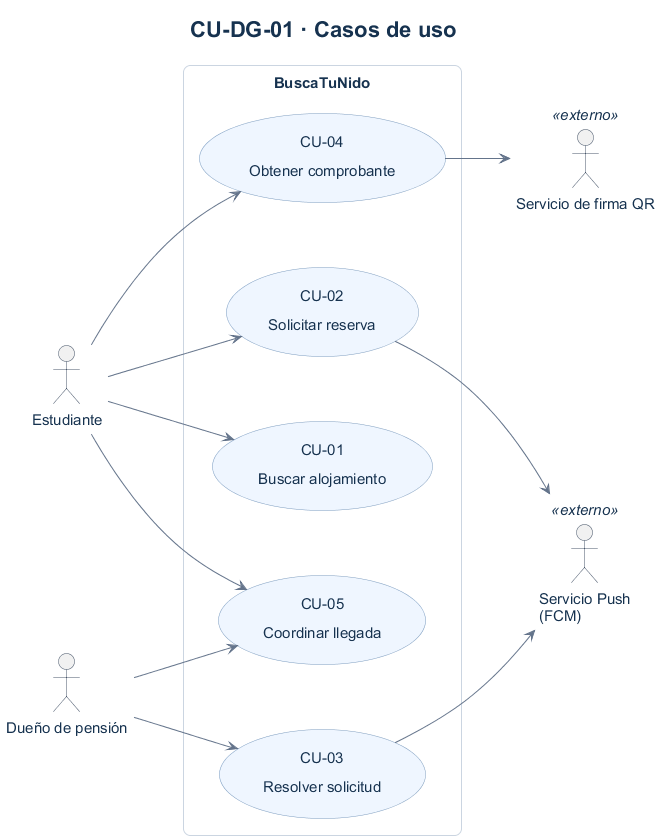
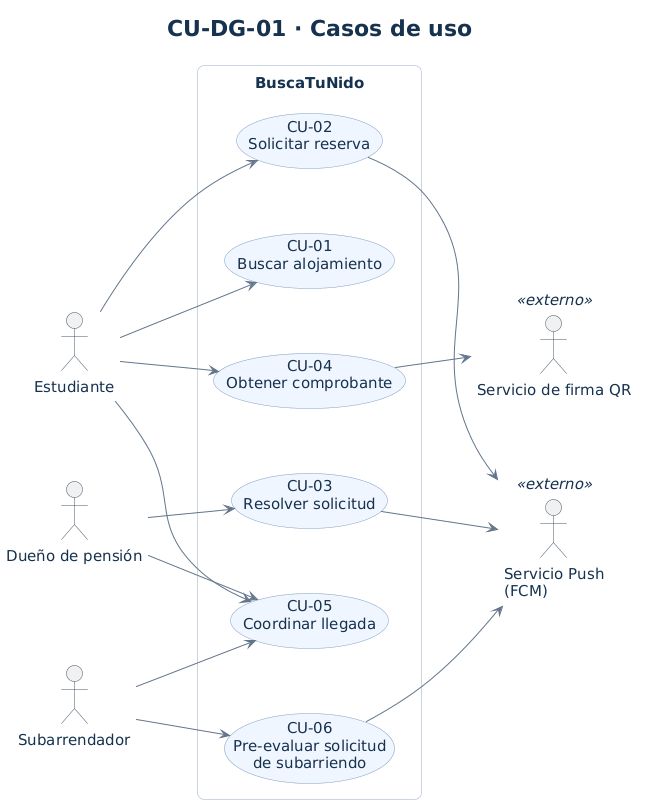
docs(eval2): resolver inconsistencias y actualizar diagramas de HU-05

diff --git a/09-casos-de-uso.md b/09-casos-de-uso.md
@@ -6,8 +6,8 @@
 |-------|----------------------------------|-------------|
 | **Estudiante** | Humano | Estudiante de educación superior foráneo que explora alojamientos, envía solicitudes formales y coordina su llegada. |
 | **Dueño de Pensión** | Humano | Arrendador o administrador del inmueble que recibe postulaciones móviles, aprueba o rechaza cupos y entrega habitaciones. |
-| **Subarrendador** | Humano | envía solicitudes formales y coordina su llegada. También es arrendador o administrador del inmueble que recibe postulaciones móviles, aprueba o rechaza cupos y entrega habitaciones. |
-| **Servicio Push (FCM)** | Sistema externo | Plataforma Firebase Cloud Messaging encargada de despachar alertas en tiempo real a los dispositivos móviles de estudiantes y dueños. |
+| **Subarrendador** | Humano | Residente autorizado de una pensión que pre-evalúa solicitudes de arriendo (`CU-06`) y coordina la llegada (`CU-05`); si postula a otra habitación actúa bajo el rol de Estudiante. |
+| **Servicio Push (FCM)** | Sistema externo | Plataforma Firebase Cloud Messaging encargada de despachar alertas en tiempo real a los dispositivos móviles de estudiantes, subarrendadores y dueños. |
 | **Servicio Criptográfico QR** | Sistema externo | Entidad de firma digital encargada de emitir y verificar sellos criptográficos asimétricos para validación de fichas sin conexión a internet. |
 
 ## CU-DG-01 — Diagrama de casos de uso
@@ -20,21 +20,22 @@ Archivo fuente: [`./diagramas/casos-de-uso.puml`](./diagramas/casos-de-uso.puml)
 
 | ID | Caso de uso (objetivo del actor) | Actor principal | Historia de origen |
 |----|-----------------------------------|-----------------|---------------------|
-| **CU-01** | Buscar alojamiento | Estudiante / subarrendador | [`HU-01`](./04-historias-usuario.md#hu-01--filtrar-catálogo-por-campus-precio-y-normas) |
-| **CU-02** | Solicitar reserva | Estudiante / subarrendador | [`HU-02`](./04-historias-usuario.md#hu-02--enviar-solicitud-formal-de-reserva) |
-| **CU-03** | Resolver solicitud | Dueño de Pensión / subarrendador | [`HU-03`](./04-historias-usuario.md#hu-03--revisar-solicitud-y-resolver-postulación-desde-el-móvil) |
-| **CU-04** | Obtener comprobante | Estudiante / subarrendador | [`HU-04`](./04-historias-usuario.md#hu-04--recibir-confirmación-y-coordinar-llegada-por-chat) |
-| **CU-05** | Coordinar llegada | Estudiante / Dueño / subarrendador | [`HU-04`](./04-historias-usuario.md#hu-04--recibir-confirmación-y-coordinar-llegada-por-chat) |
-| **CU-06** | Solicitud reserva | Estudiante / Dueño / subarrendador | [`HU-05`](./04-historias-usuario.md) |
+| **CU-01** | Buscar alojamiento | Estudiante | [`HU-01`](./04-historias-usuario.md#hu-01--filtrar-catálogo-por-campus-precio-y-normas) |
+| **CU-02** | Solicitar reserva | Estudiante | [`HU-02`](./04-historias-usuario.md#hu-02--enviar-solicitud-formal-de-reserva) |
+| **CU-03** | Resolver solicitud | Dueño de Pensión | [`HU-03`](./04-historias-usuario.md#hu-03--revisar-solicitud-y-resolver-postulación-desde-el-móvil) |
+| **CU-04** | Obtener comprobante | Estudiante | [`HU-04`](./04-historias-usuario.md#hu-04--recibir-confirmación-y-coordinar-llegada-por-chat) |
+| **CU-05** | Coordinar llegada | Estudiante / Dueño de Pensión / Subarrendador | [`HU-04`](./04-historias-usuario.md#hu-04--recibir-confirmación-y-coordinar-llegada-por-chat) |
+| **CU-06** | Pre-evaluar solicitud de subarriendo | Subarrendador | [`HU-05`](./04-historias-usuario.md#hu-05--permisos-de-subarrendador) |
 
 ## Alcance de los casos de uso
 
-El diagrama presenta cinco objetivos del usuario. Las validaciones, el bloqueo del cupo y la firma del comprobante forman parte de sus flujos; no se muestran como casos de uso independientes. No se necesitan relaciones include/extend para esta vista.
+El diagrama presenta seis objetivos del usuario. Las validaciones, el bloqueo del cupo y la firma del comprobante forman parte de sus flujos; no se muestran como casos de uso independientes. No se necesitan relaciones include/extend para esta vista.
 
 - **CU-01 — Buscar alojamiento:** filtrar el catálogo por campus, precio y normas.
-- **CU-02 — Solicitar reserva:** validar antecedentes y disponibilidad, registrar la solicitud y notificar al dueño mediante FCM.
-- **CU-03 — Resolver solicitud:** aprobar solo si hay cupo, bloquearlo y notificar al estudiante; o rechazar y enviar alternativas. Rechazar no bloquea ni libera cupos de otras reservas.
-- **CU-04 — Obtener comprobante:** requiere una solicitud aprobada. La primera emisión usa el servicio de firma QR; las descargas posteriores reutilizan la ficha. La verificación presencial puede hacerse sin conexión.
-- **CU-05 — Coordinar llegada:** habilitar el chat exclusivamente entre el postulante y el arrendador de una solicitud aprobada.
+- **CU-02 — Solicitar reserva:** validar antecedentes y disponibilidad, registrar la solicitud y notificar al dueño (y al subarrendador si corresponde) mediante FCM.
+- **CU-03 — Resolver solicitud:** aprobar solo si hay cupo (y si existe subarrendador, previa pre-aprobación suya en `CU-06`), bloquearlo y notificar al estudiante; o rechazar y enviar alternativas. Rechazar no bloquea ni libera cupos de otras reservas.
+- **CU-04 — Obtener comprobante:** requiere una solicitud aprobada (`Aprobada` o `Confirmada por dueño`). La primera emisión usa el servicio de firma QR; las descargas posteriores reutilizan la ficha. La verificación presencial puede hacerse sin conexión.
+- **CU-05 — Coordinar llegada:** habilitar el chat exclusivamente entre el postulante y el arrendador (o subarrendador autorizado) de una solicitud aprobada.
+- **CU-06 — Pre-evaluar solicitud de subarriendo:** el subarrendador pre-aprueba o rechaza una solicitud `En revisión`, registra `acuerdoSubarriendo` y notifica la decisión al dueño mediante FCM; la habitación no se bloquea hasta la confirmación final del dueño en `CU-03`.
 
-Los actores externos apoyan al sistema: FCM entrega notificaciones y el servicio QR firma el comprobante. Los actores humanos conservan sus roles de estudiante y dueño.
+Los actores externos apoyan al sistema: FCM entrega notificaciones y el servicio QR firma el comprobante. Los actores humanos conservan sus roles de estudiante, dueño y subarrendador.

diff --git a/08-modelo-dominio.md b/08-modelo-dominio.md
@@ -12,10 +12,10 @@ El diagrama muestra los atributos esenciales. La tabla siguiente conserva el det
 
 | Clase | Qué representa en el negocio | Atributos |
 |-------|------------------------------|-----------|
-| Persona | Persona que participa como estudiante postulante, arrendador o ambos. | nombreCompleto, correoElectronico, telefono, correoInstitucional, correoInstitucionalVerificado, universidad, carrera |
+| Persona | Persona que participa como estudiante postulante, arrendador (dueño), subarrendador o más de uno. | nombreCompleto, correoElectronico, telefono, correoInstitucional, correoInstitucionalVerificado, universidad, carrera |
 | Pension | Inmueble que ofrece alojamiento a estudiantes. | nombreComercial, direccion, comuna, coordenadasGeograficas, normasConvivencia, serviciosIncluidos |
 | Habitacion | Espacio ofrecido en arriendo dentro de una pensión. | identificadorHabitacion, precioMensual, tipoCama, tieneBanoPrivado, estadoDisponibilidad, fechaInicioAdmision, fechaFinAdmision |
-| SolicitudReserva | Postulación de una persona a una habitación para una fecha y duración determinadas. | codigoSolicitud, fechaLlegadaEstimada, duracionEstadiaMeses, mensajePresentacion, fechaEnvio, estado |
+| SolicitudReserva | Postulación de una persona a una habitación para una fecha y duración determinadas. | codigoSolicitud, fechaLlegadaEstimada, duracionEstadiaMeses, mensajePresentacion, fechaEnvio, acuerdoSubarriendo, estado |
 | FichaReserva | Comprobante de una solicitud aprobada, con código de verificación firmado. | codigoReserva, fechaEmision, codigoQRFirmado, estadoFicha |
 | MensajeChat | Mensaje de coordinación de llegada asociado a una solicitud aprobada. | contenidoTexto, fechaHoraEnvio, leido |
 
@@ -24,6 +24,7 @@ El diagrama muestra los atributos esenciales. La tabla siguiente conserva el det
 | Asociación | Clases | Multiplicidades | Justificación |
 |------------|--------|-----------------|---------------|
 | administra | Persona – Pension | 1 a 0..* | Cada pensión tiene un arrendador responsable; una persona puede no administrar ninguna o administrar varias. |
+| subarrienda | Persona – Pension | 0..1 a 0..* | Una pensión puede contar opcionalmente con un subarrendador autorizado para pre-evaluar postulaciones; una persona puede subarrendar cero o más pensiones. |
 | contiene | Pension – Habitacion | 1 a 1..* | Cada habitación pertenece a una pensión; cada pensión publicada ofrece al menos una habitación. |
 | presenta | Persona – SolicitudReserva | 1 a 0..* | Cada solicitud tiene un único postulante; una persona puede presentar varias solicitudes. |
 | solicita | SolicitudReserva – Habitacion | 0..* a 1 | Cada solicitud corresponde a una habitación; una habitación puede recibir varias postulaciones a lo largo del tiempo. |
@@ -33,9 +34,10 @@ El diagrama muestra los atributos esenciales. La tabla siguiente conserva el det
 
 ## Decisiones de modelado
 
-- Estudiante y dueño son roles de `Persona`, expresados como postulante y arrendador en las asociaciones. No son clases ni subtipos excluyentes: una misma persona puede asumir ambos roles. Los datos académicos son opcionales para una persona en general y obligatorios al postular según HU-02.
+- Estudiante, dueño y subarrendador son roles de `Persona`, expresados como postulante, arrendador y subarrendador en las asociaciones. No son clases ni subtipos excluyentes: una misma persona puede asumir distintos roles. Los datos académicos son opcionales para una persona en general y obligatorios al postular según HU-02.
 - Se usan asociaciones simples, sin herencia, agregación ni composición. Dar de baja una oferta no implica destruir la habitación física ni eliminar solicitudes, fichas o conversaciones históricas.
 - Los atributos representan información del negocio, sin métodos ni modificadores de visibilidad. No se incluyen cuentas bancarias porque el alcance no contempla pagos.
-- `EstadoSolicitud` corresponde a los estados de EST-01: En revisión, Aprobada, Rechazada y Expirada. `EstadoHabitacion` corresponde a EST-02: Disponible, Reservada y Ocupada.
+- `EstadoSolicitud` corresponde a los estados de EST-01 (`En revisión`, `Aprobada`, `Rechazada`, `Expirada`) y, en el flujo con subarrendador de EST-03 (`HU-05`), incorpora `Pendiente confirmación dueño` y `Confirmada por dueño` (equivalente a `Aprobada` para habilitar `EST-02`, `FichaReserva` y `MensajeChat`). `EstadoHabitacion` corresponde a EST-02: `Disponible`, `Reservada` y `Ocupada`.
+- `SolicitudReserva.acuerdoSubarriendo` (booleano opcional) registra si el subarrendador pre-aprobó (`true`) o rechazó (`false`) la solicitud antes de la confirmación final del dueño; es `null` mientras está `En revisión` o en pensiones sin subarrendador.
 - `Persona.correoInstitucionalVerificado` y las fechas `fechaInicioAdmision`/`fechaFinAdmision` de `Habitacion` se incorporan por HU-02 (confirmado el 2026-11-12): el correo verificado es condición para postular y las fechas delimitan el período válido de ingreso.
 - Puede haber varias solicitudes para una habitación, pero la aprobación exige disponibilidad y bloquea el cupo para impedir aprobaciones incompatibles. Una solicitud pendiente o rechazada no habilita ficha ni chat.

diff --git a/11-diagramas-estado.md b/11-diagramas-estado.md
@@ -48,23 +48,28 @@ Archivo fuente: [est-02.puml](./diagramas/est-02.puml)
 
 Reservada significa que el cupo está comprometido; Ocupada, que el estudiante ya llegó. Aprobar corresponde a `aprobarSolicitudReserva` en DSS-01; la validación del QR se relaciona con DSS-02. Publicación, registro de salida y baja completan el ciclo propuesto y requieren validación del equipo, pues no están desarrollados en esas secuencias.
 
-## EST-03 — Ciclo de vida de Reserva Subarriendo
+## EST-03 — Ciclo de vida de SolicitudReserva con subarrendador
 
 - Clase: [SolicitudReserva](./08-modelo-dominio.md).
-- Secuencia relacionada: [DSS-03](./10-diagramas-secuencia.md).
+- Secuencia relacionada: [DSS-03](./10-diagramas-secuencia.md#dss-03--resolución-de-postulación-de-reserva-con-subarrendador).
 
-![EST-03: Solicitud de reserva subarriendo](./diagramas/est-03.jpg)
+![EST-03: Ciclo de vida de SolicitudReserva con subarrendador](./diagramas/est-03.png)
+
+Archivo fuente: [est-03.puml](./diagramas/est-03.puml)
 
 ### Tabla de transiciones
 
 | Origen | Evento | Guarda | Acción | Destino |
 |--------|--------|--------|--------|---------|
-| Inicio | Creación tras enviar una solicitud válida | — | Registrar solicitud y notificar al subarrendador | En revisión |
-| En revisión | Aprobar | _ | esperar al subarrendador | Aprobada |
-| En revisión | Esperar al dueño | — | Registrar solicitud y notificar al dueño | En revisión |
-| En revisión | Aprobar | Habitación disponible y menos de 48 h desde el envío | Bloquear cupo y notificar aprobación | Aprobada |
-| En revisión | Rechazar | Menos de 48 h desde el envío | Registrar motivo y notificar con alternativas | Rechazada |
+| Inicio | Creación tras enviar una solicitud válida | — | Registrar solicitud (`acuerdoSubarriendo = null`) y notificar al subarrendador | En revisión |
+| En revisión | Pre-aprobar (subarrendador) | Habitación `Disponible` y menos de 48 h desde el envío | Registrar `acuerdoSubarriendo = true` y notificar pre-aprobación al dueño | Pendiente confirmación dueño |
+| En revisión | Rechazar (subarrendador) | Menos de 48 h desde el envío | Registrar `acuerdoSubarriendo = false`, motivo, notificar al dueño y al estudiante con alternativas | Rechazada |
 | En revisión | after (48 h) | — | Notificar expiración | Expirada |
-| Aprobada | Finalización | — | — | Fin |
+| Pendiente confirmación dueño | Confirmar (dueño) | Habitación `Disponible`, `acuerdoSubarriendo = true` y menos de 48 h desde pre-aprobación | Bloquear cupo (`Reservada`), emitir ficha y notificar aprobación al estudiante | Confirmada por dueño |
+| Pendiente confirmación dueño | Rechazar (dueño) | Menos de 48 h desde pre-aprobación | Registrar motivo y notificar rechazo con alternativas al estudiante | Rechazada |
+| Pendiente confirmación dueño | after (48 h) | — | Notificar expiración | Expirada |
+| Confirmada por dueño | Finalización | — | — | Fin |
 | Rechazada | Finalización | — | — | Fin |
 | Expirada | Finalización | — | — | Fin |
+
+`Confirmada por dueño` equivale a `Aprobada` de `EST-01` para habilitar el bloqueo de la habitación (`Disponible → Reservada` en `EST-02`), la emisión de `FichaReserva` y el acceso a `MensajeChat`. Mientras permanezca en `Pendiente confirmación dueño`, el cupo continúa `Disponible` y no se habilitan ni la ficha ni el chat.

diff --git a/eval2/CAMBIOS.md b/eval2/CAMBIOS.md
@@ -1,0 +1,10 @@
+# Registro de cambios — Evaluación 2
+
+| Artefacto | Qué cambió (antes → después) | Por qué el cambio solicitado lo exige | Responsable |
+|---|---|---|---|
+| **HU y Gherkin** (`04-historias-usuario.md`, `07-criterios-aceptacion.md`) | Antes: `HU-01` a `HU-04` (8 escenarios Gherkin). Después: agrega `HU-05 — Permisos de subarrendador` (`CA1`, `CA2`) y 3 escenarios Gherkin (doble aprobación exitosa, rechazo de subarrendador o dueño, y restricción de ficha/chat sin confirmación del dueño). | El nuevo actor requiere una historia y criterios verificables para el flujo de pre-aprobación y doble aprobación. | Matías Henríquez |
+| **Modelo de dominio** (`08-modelo-dominio.md`, `diagramas/modelo-dominio.puml`, `diagramas/modelo-dominio-simplificado.png`) | Antes: 6 clases (`Persona` como estudiante o dueño) y `EstadoSolicitud` en `EST-01`. Después: incorpora rol `Subarrendador` en `Persona` con asociación `subarrienda` (`Persona 0..1 – 0..* Pension`), agrega `SolicitudReserva.acuerdoSubarriendo` e incluye los estados `Pendiente confirmación dueño` y `Confirmada por dueño`. | Es necesario identificar qué persona subarrienda una pensión, registrar su pre-acuerdo y distinguir una pre-aprobación de la aprobación final. | Jason Monroy |
+| **Casos de uso** (`09-casos-de-uso.md`, `diagramas/casos-de-uso.puml`, `diagramas/casos-de-uso.png`) | Antes: actores `Estudiante` y `Dueño de Pensión`, casos `CU-01` a `CU-05`. Después: agrega actor `Subarrendador` (vinculado a `CU-05` y `CU-06`) y nuevo caso `CU-06 — Pre-evaluar solicitud de subarriendo` conectado a `Servicio Push (FCM)`. | El subarrendador ejecuta un objetivo propio distinto al del dueño y dispara notificación push hacia este. | José Ignacio Leiva |
+| **Diagramas de secuencia** (`10-diagramas-secuencia.md`, `diagramas/dss-03.puml`, `diagramas/dss-03.png`) | Antes: `DSS-01` y `DSS-02`. Después: agrega `DSS-03 — Resolución de postulación de reserva con subarrendador` con bloque `alt` de tres ramas (doble aprobación, rechazo del subarrendador y rechazo del dueño) usando `ServicioPush`. | Modela la interacción externa vía push y las ramificaciones entre subarrendador, dueño y estudiante. | Martín León Pizarro |
+| **Diagramas de estado** (`11-diagramas-estado.md`, `diagramas/est-03.puml`, `diagramas/est-03.png`) | Antes: `EST-01` y `EST-02`. Después: agrega `EST-03 — Ciclo de vida de SolicitudReserva con subarrendador` con estados `En revisión` → `Pendiente confirmación dueño` → `Confirmada por dueño` / `Rechazada` / `Expirada` (48 h). | La doble aprobación exige un estado intermedio antes de habilitar el bloqueo de la habitación (`Reservada`) en `EST-02`. | Vicente Arancibia Araya |
+| **Trazabilidad** (`12-trazabilidad.md`) | Antes: `RP-01`–`RP-10`, `RP-DER-01` y `HU-01`–`HU-04`. Después: enlaza `RP-11` ↔ `HU-05` ↔ `CU-06`/`CU-03` ↔ `DSS-03` ↔ `EST-03`/`EST-02` ↔ clases afectadas, y deja fila de `HU-05` lista para enlazar código y pruebas. | Mantiene la trazabilidad completa de requisitos a pruebas antes de generar la implementación. | José Ignacio Leiva |

diff --git a/07-criterios-aceptacion.md b/07-criterios-aceptacion.md
@@ -87,3 +87,35 @@ Característica: Confirmación de reserva y coordinación de llegada
     Entonces el acceso al canal de comunicación se restringe
     Y se le informa que el chat se habilita exclusivamente una vez confirmada y aprobada la reserva
 ```
+
+---
+
+## HU-05 — Permisos de subarrendador
+Historia: Como subarrendador, quiero pre-aprobar o rechazar las solicitudes de arriendo de los postulantes para la habitación que subarriendo, para participar en la evaluación de residentes con validación final del dueño de la pensión.
+
+```gherkin
+Característica: Doble aprobación de postulación entre subarrendador y dueño
+
+  Escenario: Doble aprobación exitosa por subarrendador y dueño
+    Dado que existe una solicitud de reserva en estado "En revisión" para una pensión con subarrendador autorizado y habitación "Disponible"
+    Cuando el subarrendador pre-aprueba la solicitud
+    Entonces la solicitud pasa a estado "Pendiente confirmación dueño" con acuerdoSubarriendo registrado
+    Y se despacha una notificación push al dueño informando la pre-aprobación
+    Y cuando el dueño confirma la solicitud dentro del plazo de 48 horas
+    Entonces la solicitud pasa a estado "Confirmada por dueño"
+    Y la habitación pasa a estado "Reservada" quedando bloqueada para nuevas solicitudes en el catálogo
+    Y se emite la ficha oficial de reserva y se notifica la confirmación al estudiante
+
+  Escenario: Rechazo de postulación por el subarrendador o por el dueño
+    Dado que existe una solicitud de reserva en estado "En revisión" o "Pendiente confirmación dueño"
+    Cuando el subarrendador o el dueño rechaza la postulación indicando el motivo
+    Entonces la solicitud pasa a estado "Rechazada"
+    Y la habitación se mantiene en estado "Disponible" para otros postulantes
+    Y se notifica el rechazo al estudiante junto a alternativas del sector y se informa al dueño
+
+  Escenario: Restricción de ficha y chat mientras falta confirmación del dueño
+    Dado que el subarrendador pre-aprobó una solicitud pero esta sigue en estado "Pendiente confirmación dueño"
+    Cuando el estudiante intenta descargar la ficha oficial en PDF o abrir el chat de coordinación
+    Entonces el sistema impide el acceso y mantiene la habitación en estado "Disponible"
+    Y informa que la reserva aún requiere confirmación final del dueño
+```

diff --git a/EVALUACION2.md b/EVALUACION2.md
@@ -1,27 +1,20 @@
-### historia de usuarios
-- se agregan historia de usuario 
-- se agregan criterios de aceptación
+### Historia de usuarios (`04-historias-usuario.md`, `07-criterios-aceptacion.md`)
+- Se agrega `HU-05 — Permisos de subarrendador` (`CA1`: notificación al dueño; `CA2`: aprobación conjunta de subarrendador y dueño).
+- Se agregan 3 escenarios Gherkin para doble aprobación, rechazo y bloqueo de ficha/chat sin confirmación del dueño.
 
-### modelo de dominio: 
+### Modelo de dominio (`08-modelo-dominio.md`, `diagramas/modelo-dominio.puml`)
+- Se agrega el atributo `acuerdoSubarriendo` en `SolicitudReserva`.
+- Se incorpora el rol `Subarrendador` sobre `Persona` con la asociación `subarrienda` (`Persona 0..1 – 0..* Pension`).
 
-Cambian atributos en la entidad habitación
+### Casos de uso (`09-casos-de-uso.md`, `diagramas/casos-de-uso.puml`)
+- Se agrega el actor `Subarrendador` (vinculado a `CU-05` y `CU-06`).
+- Se agrega `CU-06 — Pre-evaluar solicitud de subarriendo` conectado a `Servicio Push (FCM)`.
 
-### casos de uso
+### Diagrama de secuencia (`10-diagramas-secuencia.md`, `diagramas/dss-03.puml`)
+- Se crea `DSS-03 — Resolución de postulación de reserva con subarrendador` con las ramas `alt` de doble aprobación y rechazos entre subarrendador, dueño y estudiante.
 
-- un actor nuevo, subarrendador
-- en el diagrama uno, se agrega un nuevo subarrendador, sería un rol alternativo al dueño y a estudiante. tiene todos los atributos
-- casos de uso y su origen. es actor principal de todos
+### Diagramas de estado (`11-diagramas-estado.md`, `diagramas/est-03.puml`)
+- Se agrega `EST-03 — Ciclo de vida de SolicitudReserva con subarrendador` (`En revisión` → `Pendiente confirmación dueño` → `Confirmada por dueño` / `Rechazada` / `Expirada`).
 
-
-
-### diagrama de secuencia 
-
-- se crea un nuevo diagrama de secuencia debido a que hay un actor nuevo por lo que se necesita un diagrama estudiante- subarrendador - dueño 
-
-### diagramas de estado
-
-- se crea una nueva basada en el primer diagrama para la doble aprobación porque se agrega el actor nuevo
-
-### trazabilidad
-
-- la matriz se actualiza enlazando todos los cambios y añadidos anteriores
+### Trazabilidad (`12-trazabilidad.md`)
+- Se actualiza la matriz enlazando `RP-11` con `HU-05`, `CU-06`, `DSS-03`, `EST-03` y las entidades afectadas.

diff --git a/10-diagramas-secuencia.md b/10-diagramas-secuencia.md
@@ -34,10 +34,18 @@ Archivo fuente: [`./diagramas/dss-02.puml`](./diagramas/dss-02.puml)
 
 ---
 
-## DSS-03 — Resolución de postulación de reserva para un subarrendador (Aprobación / Rechazo)
+## DSS-03 — Resolución de postulación de reserva con subarrendador
 
-- **Caso de uso:** [`CU-06`](./09-casos-de-uso.md)
-- **Historia:** [`HU-05`]()
+- **Casos de uso:** [`CU-06`](./09-casos-de-uso.md) y [`CU-03`](./09-casos-de-uso.md)
+- **Historia:** [`HU-05`](./04-historias-usuario.md#hu-05--permisos-de-subarrendador)
 - **Sistemas externos que participan:** Servicio Push (Firebase Cloud Messaging - FCM)
 
-![DSS-01](./diagramas/dss-03.jpg)
+![DSS-03](./diagramas/dss-03.png)
+
+Archivo fuente: [`./diagramas/dss-03.puml`](./diagramas/dss-03.puml)
+
+**Variantes representadas:**
+- **Fragmento combinado `alt` (Doble aprobación entre subarrendador y dueño):**
+  - **Rama Escenario Principal (Doble aprobación):** El subarrendador pre-aprueba la postulación (`preAprobarSolicitud`); el sistema registra `acuerdoSubarriendo = true`, cambia la solicitud a `Pendiente confirmación dueño` sin bloquear todavía la habitación y notifica al dueño vía FCM; al confirmar el dueño (`confirmarReservaSubarriendo`), el sistema bloquea la habitación (`Reservada`), emite la ficha y notifica al estudiante.
+  - **Rama Escenario Alternativo 1 (Rechazo del subarrendador):** El subarrendador rechaza la solicitud; el sistema registra el rechazo (`Rechazada`), mantiene la habitación `Disponible`, notifica la decisión al dueño y envía al estudiante las alternativas disponibles vía FCM.
+  - **Rama Escenario Alternativo 2 (Rechazo del dueño en confirmación):** El dueño rechaza una solicitud previamente pre-aprobada; el sistema la marca `Rechazada`, mantiene la habitación `Disponible` y despacha la notificación con alternativas al estudiante vía FCM.

diff --git a/03-requisitos.md b/03-requisitos.md
@@ -14,6 +14,7 @@
 | **RP-08** | El sistema debe habilitar un canal de chat directo integrado entre el estudiante y el dueño tras confirmarse la reserva para coordinar la llegada presencial. | Funcional | [`ACT-TOBE-11`](./02-rediseno-to-be.md#act-tobe-11--recibir-confirmación-y-coordinar-llegada-por-chat) |
 | **RP-09** | La interfaz de usuario debe implementar un diseño responsive mobile-first con áreas táctiles mínimas de 48×48 px para botones y acciones de aprobación/rechazo. | No funcional (Usabilidad) | [`ACT-TOBE-05`](./02-rediseno-to-be.md#act-tobe-05--revisar-solicitud-y-perfil-en-la-app) |
 | **RP-10** | El backend debe procesar y responder las consultas de catálogo y envío de notificaciones push en un tiempo inferior a 400 ms en el percentil 95. | No funcional (Rendimiento) | [`ACT-TOBE-02`](./02-rediseno-to-be.md#act-tobe-02--consultar-y-cargar-catálogo-en-tiempo-real) y [`ACT-TOBE-04`](./02-rediseno-to-be.md#act-tobe-04--generar-notificación-push-de-solicitud) |
+| **RP-11** | El sistema debe permitir que un subarrendador autorizado pre-evalúe (pre-apruebe o rechace) solicitudes de arriendo notificando su decisión al dueño por push, y exigir la confirmación final del dueño para aprobar la reserva y bloquear la habitación. | Funcional | [`ACT-TOBE-05`](./02-rediseno-to-be.md#act-tobe-05--revisar-solicitud-y-perfil-en-la-app), [`ACT-TOBE-06`](./02-rediseno-to-be.md#act-tobe-06--rechazar-solicitud) y [`ACT-TOBE-09`](./02-rediseno-to-be.md#act-tobe-09--aprobar-solicitud-de-reserva) |
 
 ---
 
